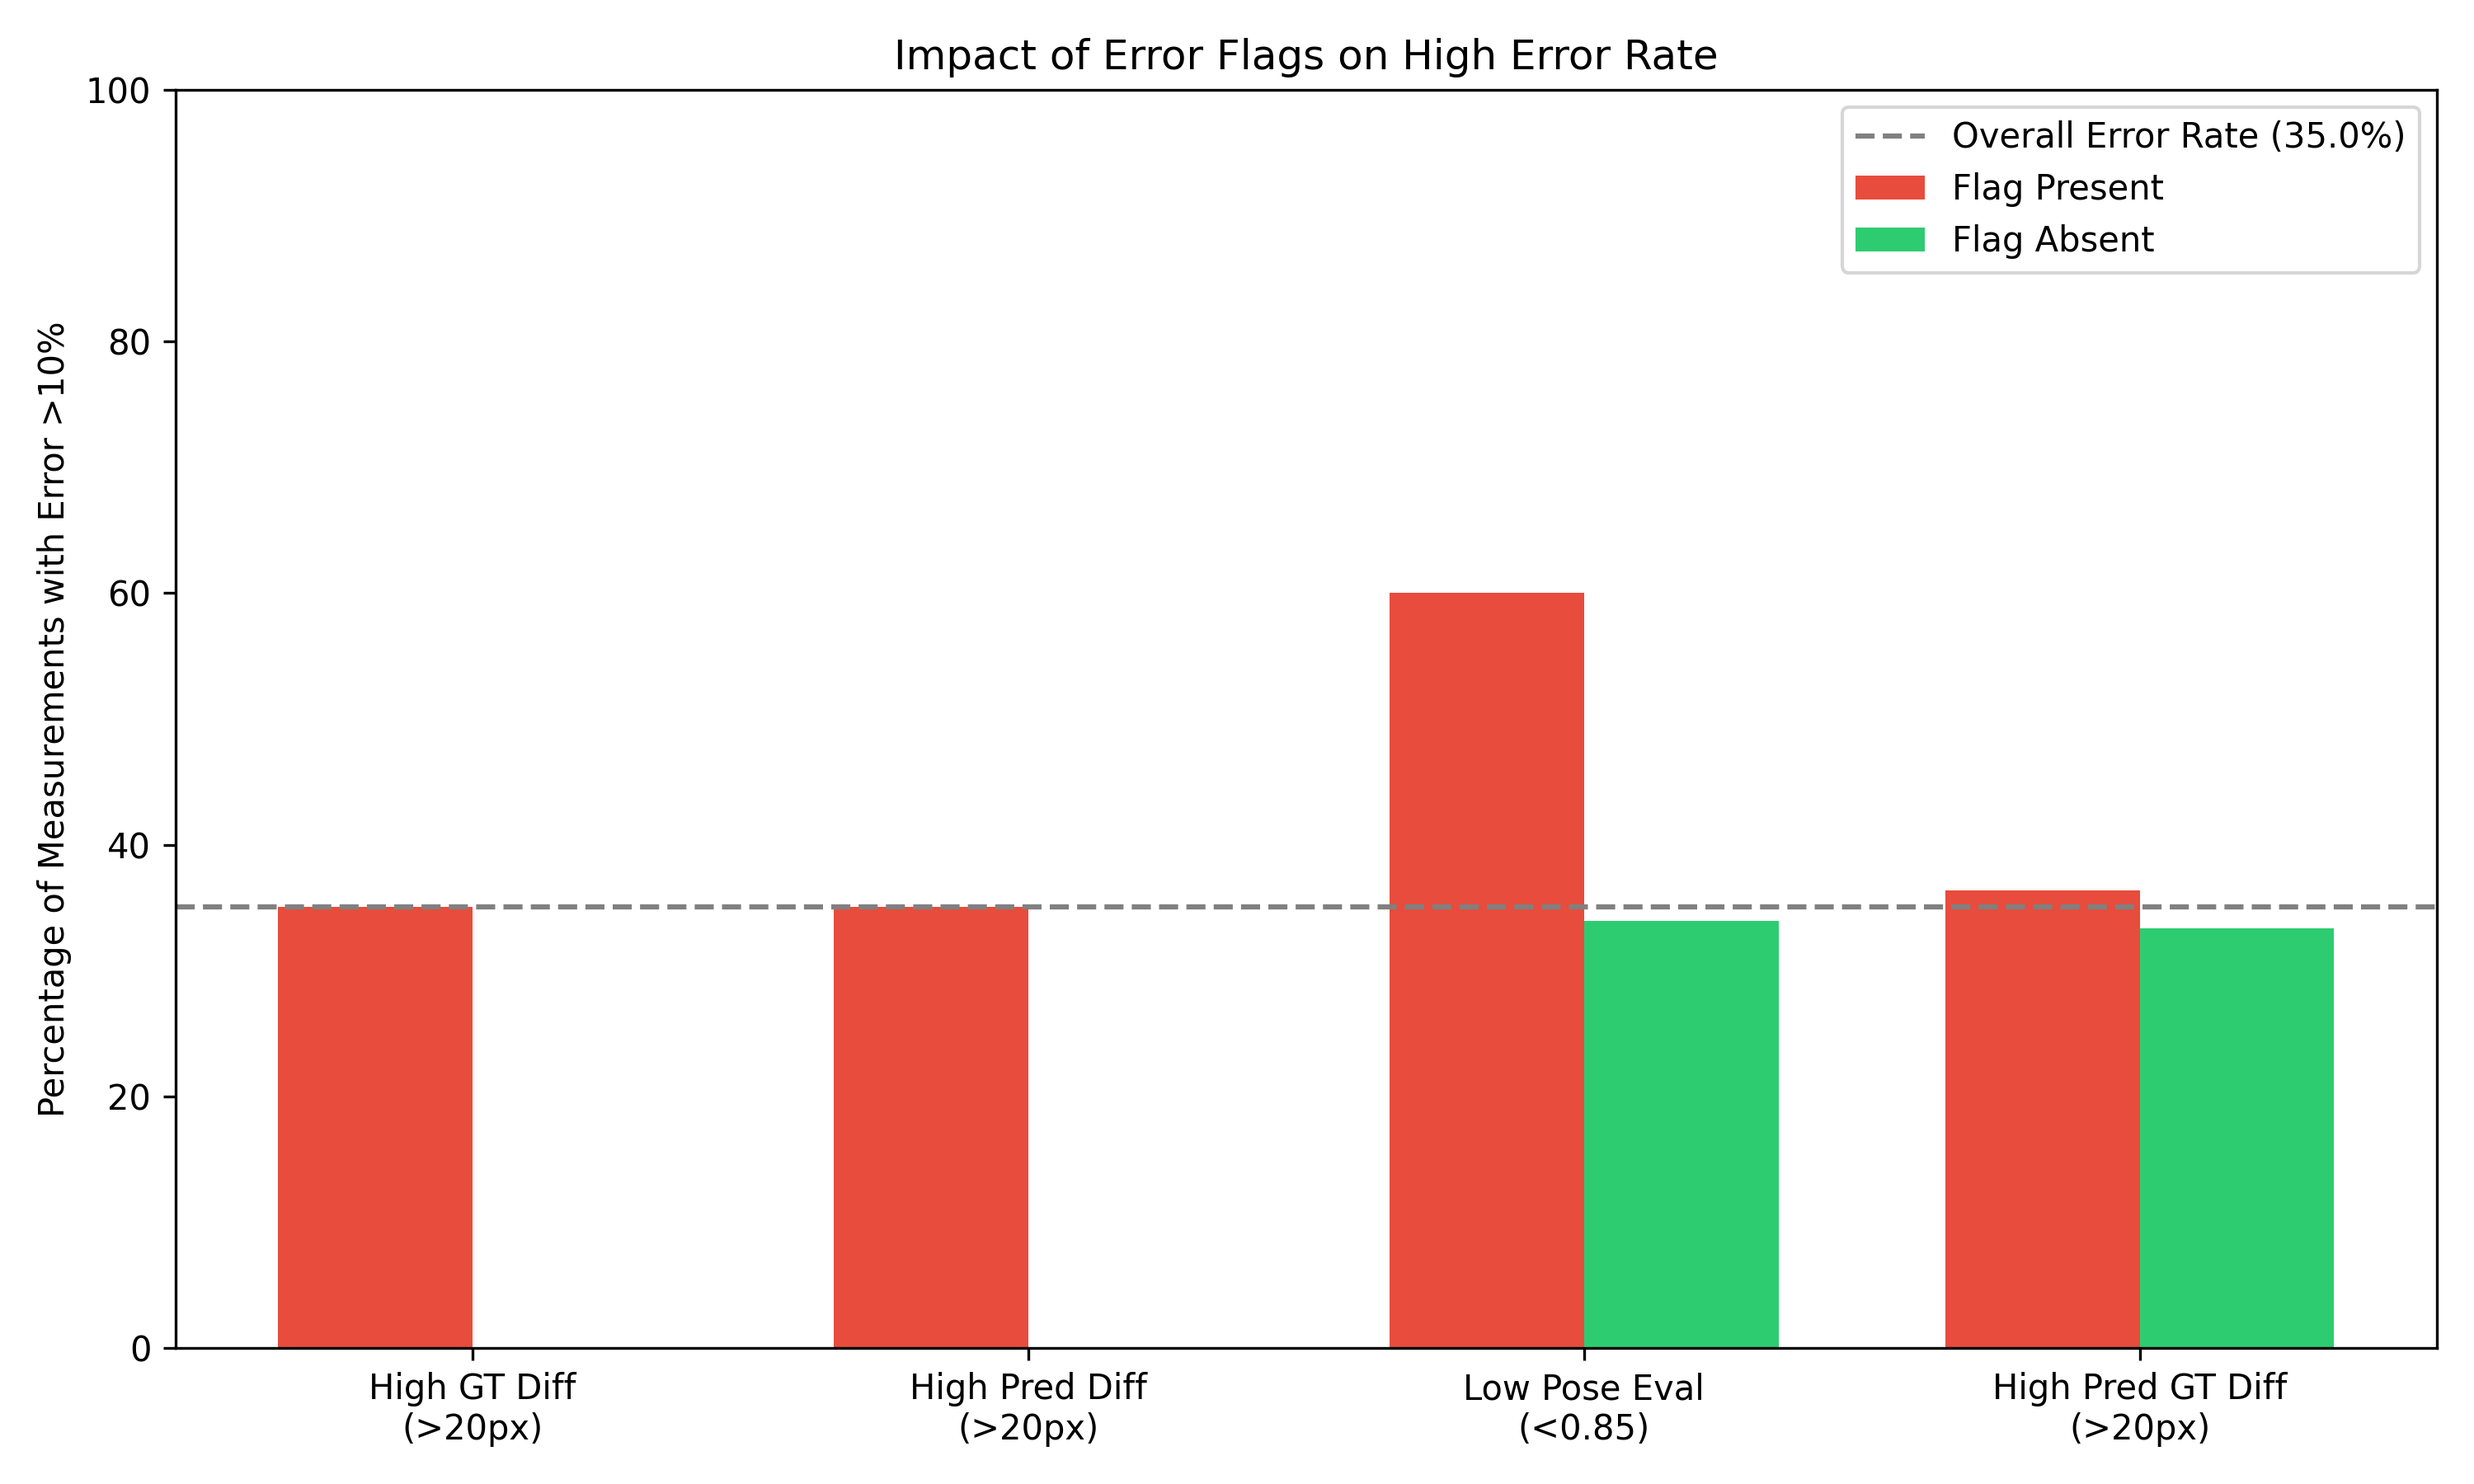
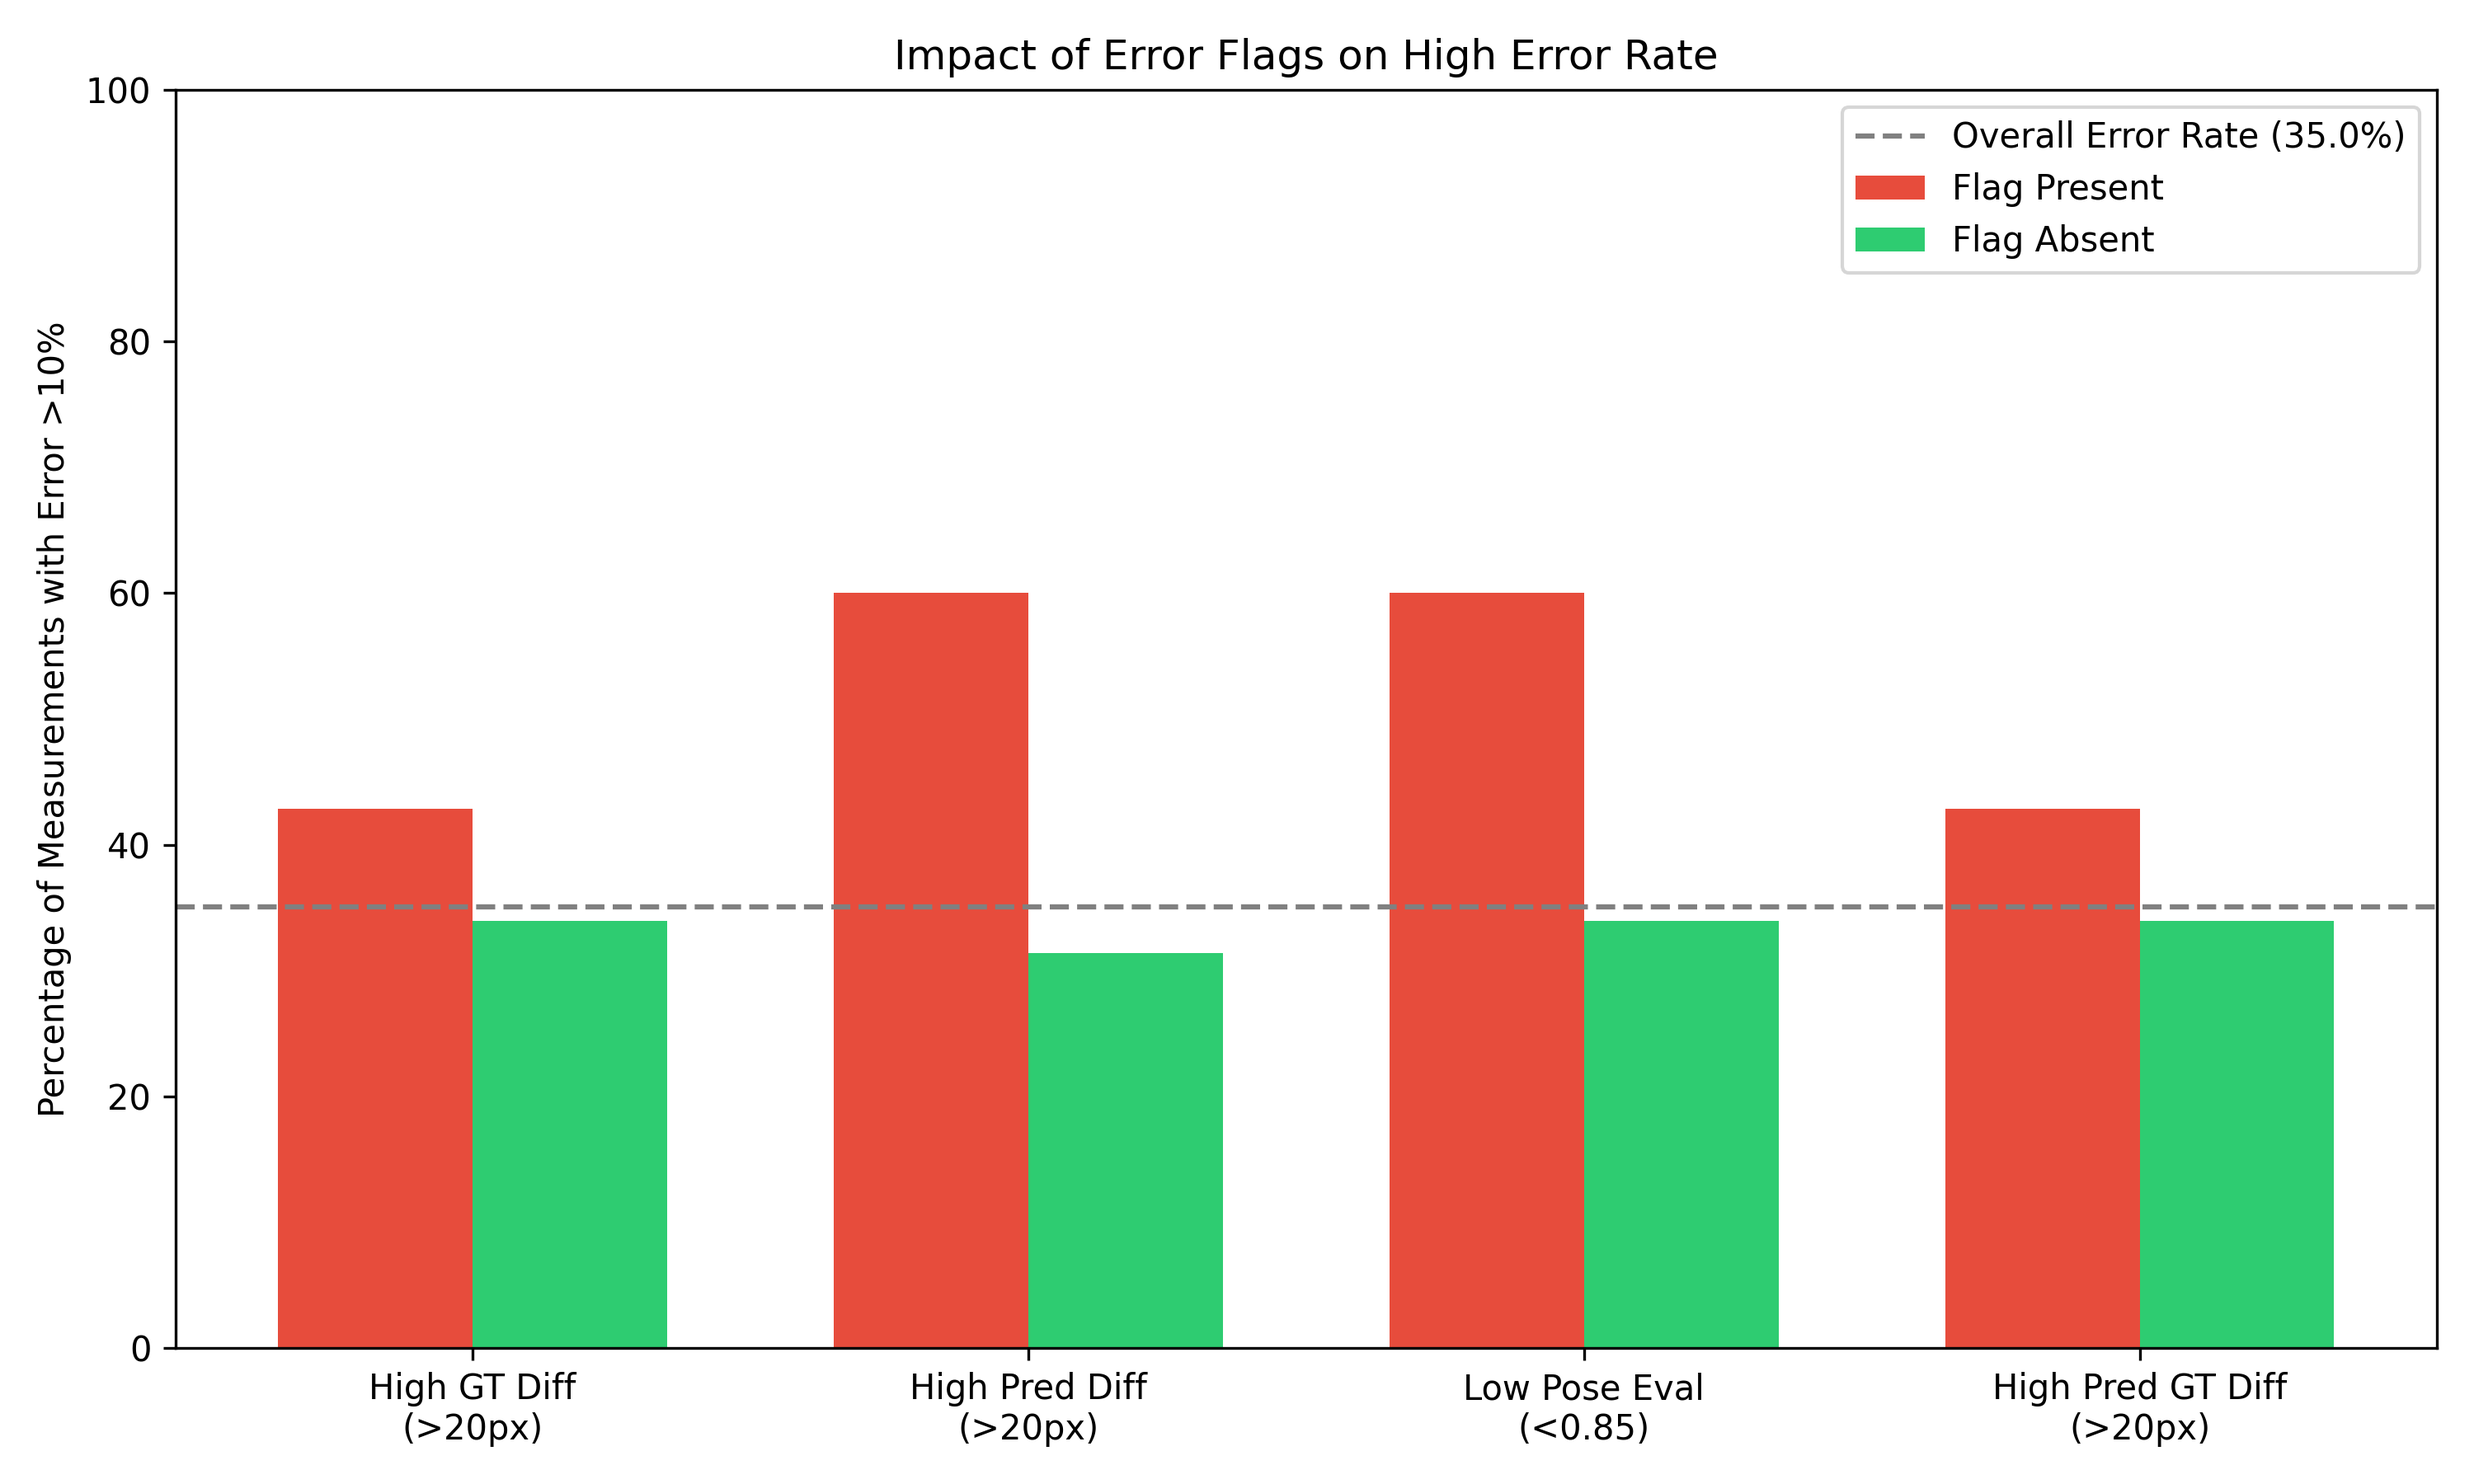
error flag exploration

diff --git a/fifty_one/measurements/error_flags_analysis.py b/fifty_one/measurements/error_flags_analysis.py
@@ -47,7 +47,7 @@ min_mpe_index = min_mpe_column.map(column_to_index)
 df['best_length'] = df.apply(lambda row: row[f'Length_{min_mpe_index[row.name]}'], axis=1)
 
 # Calculate best length in pixels using the corresponding scale
-df['best_length_pixels'] = df.apply(lambda row: row['best_length'] / row[f'Scale_{min_mpe_index[row.name]}'], axis=1)
+df['best_length_pixels'] = df.apply(lambda row: row[f'Length_{min_mpe_index[row.name]}_pixels'], axis=1)
 
 # # Calculate pixel differences
 # df['min_expert_pixels'] = df[['Length_1_pixels', 'Length_2_pixels', 'Length_3_pixels']].min(axis=1)
@@ -77,13 +77,13 @@ df['min_gt_diff'] = abs(df['best_length_pixels'] - df['Length_ground_truth_annot
 
 # Define flags for potential error sources
 # 1. High pixel difference between ground truth and expert
-df['flag_high_gt_diff'] = df['min_gt_diff'] > 20
+df['flag_high_gt_diff'] = df['min_gt_diff']/df['best_length_pixels']*100 > 10
 
 # # 2. High variability between expert measurements
 # df['flag_high_expert_var'] = df['expert_range_pixels'] > 15
 
 # 3. High pixel difference between prediction and expert 
-df['flag_high_pred_diff'] = df['pred_pixels_diff'] > 20
+df['flag_high_pred_diff'] = df['pred_pixels_diff'] / df['best_length_pixels'] * 100 > 10
 
 # 4. Low pose evaluation score (if available)
 if 'pose_eval' in df.columns:
@@ -94,7 +94,7 @@ else:
     df['flag_low_pose_eval'] = False
     print("Warning: No pose evaluation column found!")
 
-df['flag_pred_gt_diff'] = df['pred_pixel_gt_diff'] > 20
+df['flag_pred_gt_diff'] = df['pred_pixel_gt_diff']/df['best_length_pixels']*100 > 10
 
 # Count how many flags each measurement has
 df['flag_count'] = df[['flag_high_gt_diff',  'flag_high_pred_diff', 'flag_low_pose_eval', 'flag_pred_gt_diff']].sum(axis=1)
@@ -181,9 +181,13 @@ for i, flag1 in enumerate(flag_cols):
     for j, flag2 in enumerate(flag_cols):
         # Calculate conditional probability: P(flag2=True | flag1=True)
         if len(df[df[flag1]]) > 0:
-            heatmap_data.iloc[i, j] = df[df[flag1]][flag2].mean() * 100
+            # Convert to numeric values explicitly
+            heatmap_data.iloc[i, j] = df[df[flag1]][flag2].astype(float).mean() * 100
         else:
-            heatmap_data.iloc[i, j] = 0
+            heatmap_data.iloc[i, j] = 0.0
+
+# Convert the entire DataFrame to float type
+heatmap_data = heatmap_data.astype(float)
 
 plt.figure(figsize=(10, 8))
 sns.heatmap(heatmap_data, annot=True, cmap='YlOrRd', fmt='.1f', vmin=0, vmax=100)
@@ -209,6 +213,89 @@ fig = px.scatter(df,
 # Add horizontal line at 10% error
 fig.add_hline(y=10, line_dash="dash", line_color="red")
 fig.update_layout(height=600, width=900)
+fig.show()
+
+# Create a more detailed scatter plot with flag information in hover
+# Create a helper function to generate flag descriptions for hover text
+def get_flag_descriptions(row):
+    return (
+        f"High GT Diff: {row['flag_high_gt_diff']}, val: {row['min_gt_diff']:.1f}px<br>" +
+        f"High Pred Diff: {row['flag_high_pred_diff']}, val: {row['pred_pixels_diff']:.1f}px<br>" +
+        f"Low Pose Eval: {row['flag_low_pose_eval']}, val: {row['pose_eval_iou'] if 'pose_eval_iou' in row else row['pose_eval'] if 'pose_eval' in row else 'N/A'}<br>" +
+        f"High Pred-GT Diff: {row['flag_pred_gt_diff']}, val: {row['pred_pixel_gt_diff']:.1f}px"
+    )
+
+# Add flag description column
+df['flag_description'] = df.apply(get_flag_descriptions, axis=1)
+
+# Create the enhanced scatter plot
+fig = px.scatter(df, 
+                x='min_gt_diff', 
+                y='min_mpe',
+                color='flag_count',
+                color_continuous_scale='Viridis',
+                hover_data={
+                    'PrawnID': True,
+                    'Label': True, 
+                    'Pond_Type': True,
+                    'min_gt_diff': ':.1f',
+                    'min_mpe': ':.1f',
+                    'flag_count': True,
+                    'flag_description': True,
+                    'pred_Distance_pixels': ':.1f',
+                    'best_length_pixels': ':.1f'
+                },
+                title='Error vs Ground Truth Difference, Colored by Number of Flags',
+                labels={
+                    'min_gt_diff': 'Ground Truth Pixel Difference',
+                    'min_mpe': 'Min MPE (%)',
+                    'flag_count': 'Number of Flags',
+                    'flag_description': 'Flags',
+                    'pred_Distance_pixels': 'Predicted Length (px)',
+                    'best_length_pixels': 'Best Expert Length (px)'
+                })
+
+# Add horizontal line at 10% error
+fig.add_hline(y=10, line_dash="dash", line_color="red")
+fig.update_layout(height=600, width=900)
+
+# Customize hover template
+fig.update_traces(
+    hovertemplate='<b>ID:</b> %{customdata[0]}<br>' +
+                 '<b>Image:</b> %{customdata[1]}<br>' +
+                 '<b>GT Diff:</b> %{customdata[3]:.1f}px<br>' +
+                 '<b>Error:</b> %{customdata[4]:.1f}%<br>' +
+                 '<b>FLAGS:</b><br>%{customdata[6]}<br>' +
+                 '<extra></extra>'
+)
+
+# Simplify the enhanced scatter plot with direct flags
+# First create simple column flags for better hover display
+df['flag_info'] = df.apply(lambda row: 
+                        f"GT Diff: {row['flag_high_gt_diff']}, {row['min_gt_diff']:.1f}px\n" +
+                        f"Pred Diff: {row['flag_high_pred_diff']}, {row['pred_pixels_diff']:.1f}px\n" +
+                        f"Pose Eval: {row['flag_low_pose_eval']}\n" +
+                        f"Pred-GT Diff: {row['flag_pred_gt_diff']}, {row['pred_pixel_gt_diff']:.1f}px", 
+                        axis=1)
+
+# Create simple scatter plot with direct flag info
+fig = px.scatter(df, 
+                x='min_gt_diff', 
+                y='min_mpe',
+                color='flag_count',
+                color_continuous_scale='Viridis',
+                hover_data=['PrawnID', 'Label', 'flag_info'],
+                title='Error vs Ground Truth Difference, Colored by Number of Flags',
+                labels={
+                    'min_gt_diff': 'Ground Truth Pixel Difference',
+                    'min_mpe': 'Min MPE (%)',
+                    'flag_count': 'Number of Flags'
+                })
+
+# Add horizontal line at 10% error
+fig.add_hline(y=10, line_dash="dash", line_color="red")
+fig.update_layout(height=600, width=900)
+
 fig.show()
 
 # Create categorical count plot showing distribution of flags in high error vs low error
@@ -278,5 +365,72 @@ fig.update_layout(
 
 fig.update_yaxes(title_text="Number of Measurements", secondary_y=False)
 fig.update_yaxes(title_text="Percentage with Error >10%", secondary_y=True, range=[0, 100])
+
+fig.show()
+
+# Keep only this scatter plot with pond type shapes
+# Improve flag info display and use pond type for shapes
+df['flag_info'] = df.apply(lambda row: 
+                        f"GT Diff: {row['flag_high_gt_diff']}, {(row['min_gt_diff']/row['best_length_pixels']*100):.1f}%\n" +
+                        f"Pred Diff: {row['flag_high_pred_diff']}, {(row['pred_pixels_diff']/row['best_length_pixels']*100):.1f}%\n" +
+                        f"Pose Eval: {row['flag_low_pose_eval']}\n" +
+                        f"Pred-GT Diff: {row['flag_pred_gt_diff']}, {(row['pred_pixel_gt_diff']/row['best_length_pixels']*100):.1f}%", 
+                        axis=1)
+
+# Map pond types to marker symbols
+pond_shapes = {
+    'circle_male': 'circle', 
+    'circle_female': 'diamond', 
+    'square': 'square'
+}
+
+# Create figure using Plotly Graph Objects for more control
+fig = go.Figure()
+
+# Add traces for each pond type with improved hover information
+for pond_type, shape in pond_shapes.items():
+    pond_df = df[df['Pond_Type'] == pond_type]
+    
+    fig.add_trace(go.Scatter(
+        x=pond_df['min_gt_diff'],
+        y=pond_df['min_mpe'],
+        mode='markers',
+        marker=dict(
+            size=10,
+            symbol=shape,
+            color=pond_df['flag_count'],
+            colorscale='Viridis',
+            colorbar=dict(title='Number of Flags') if pond_type == list(pond_shapes.keys())[0] else None,
+            showscale=pond_type == list(pond_shapes.keys())[0]
+        ),
+        name=pond_type,
+        text=pond_df['flag_info'],
+        hovertemplate=
+            "<b>ID:</b> %{customdata[0]}<br>" +
+            "<b>Image:</b> %{customdata[1]}<br>" +
+            "<b>Pond Type:</b> %{customdata[2]}<br>" +
+            "<b>Error (%):</b> %{customdata[3]:.1f}%<br>" +
+            "<b>GT Diff (px):</b> %{customdata[4]:.1f}px<br>" +
+            "<b>Flags:</b><br>%{text}<br>" +
+            "<extra></extra>",
+        customdata=pond_df[['PrawnID', 'Label', 'Pond_Type', 'min_mpe', 'min_gt_diff']].values
+    ))
+
+# Add horizontal line at 10% error threshold
+fig.add_shape(
+    type='line',
+    x0=0, x1=df['min_gt_diff'].max() * 1.1,
+    y0=10, y1=10,
+    line=dict(color='red', dash='dash')
+)
+
+# Update layout
+fig.update_layout(
+    title='Error vs Ground Truth Difference, Colored by Number of Flags',
+    xaxis_title='Ground Truth Pixel Difference',
+    yaxis_title='Min MPE (%)',
+    legend_title='Pond Type',
+    height=600, width=900
+)
 
 fig.show() 
